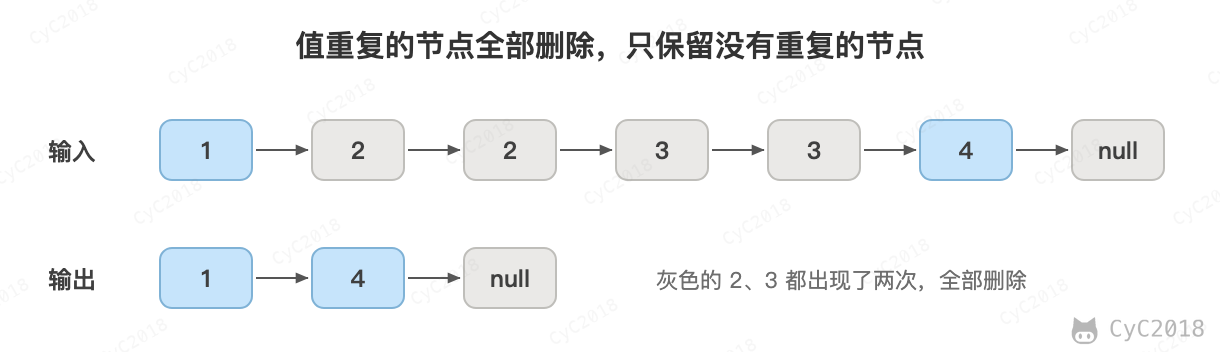
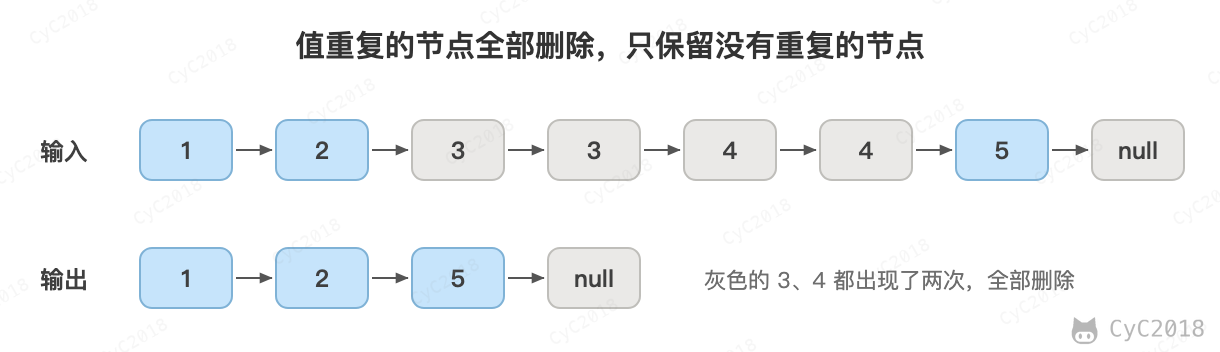
Update 18.2 删除链表中重复的结点.md
补充题目描述与递归解题思路，调整解题思路小节标题，并重新绘制链表去重配图。

diff --git a/notes/18.2 删除链表中重复的结点.md b/notes/18.2 删除链表中重复的结点.md
@@ -4,9 +4,16 @@
 
 ## 题目描述
 
+在一个排序的链表中，重复出现的结点全部删除，一个都不保留。例如 1 -\> 2 -\> 3 -\> 3 -\> 4 -\> 4 -\> 5 处理后为 1 -\> 2 -\> 5。
+
 <div align="center"> <img src="pics/offer18-2-delete-duplicates.png" width="610px"/> </div><br>
 
-## 解题描述
+## 解题思路
+
+用递归处理，deleteDuplicates(head) 返回以 head 开头的链表去重后的头节点：
+
+- head 与下一个节点的值相同：head 属于重复的一组，跳过与它值相同的所有节点，对后面第一个不同的节点递归，结果就是答案，head 本身不保留；
+- head 与下一个节点的值不同：head 一定保留，对 head.next 递归，把结果接在 head 后面。
 
 ```java
 public ListNode deleteDuplicates(ListNode head) {
